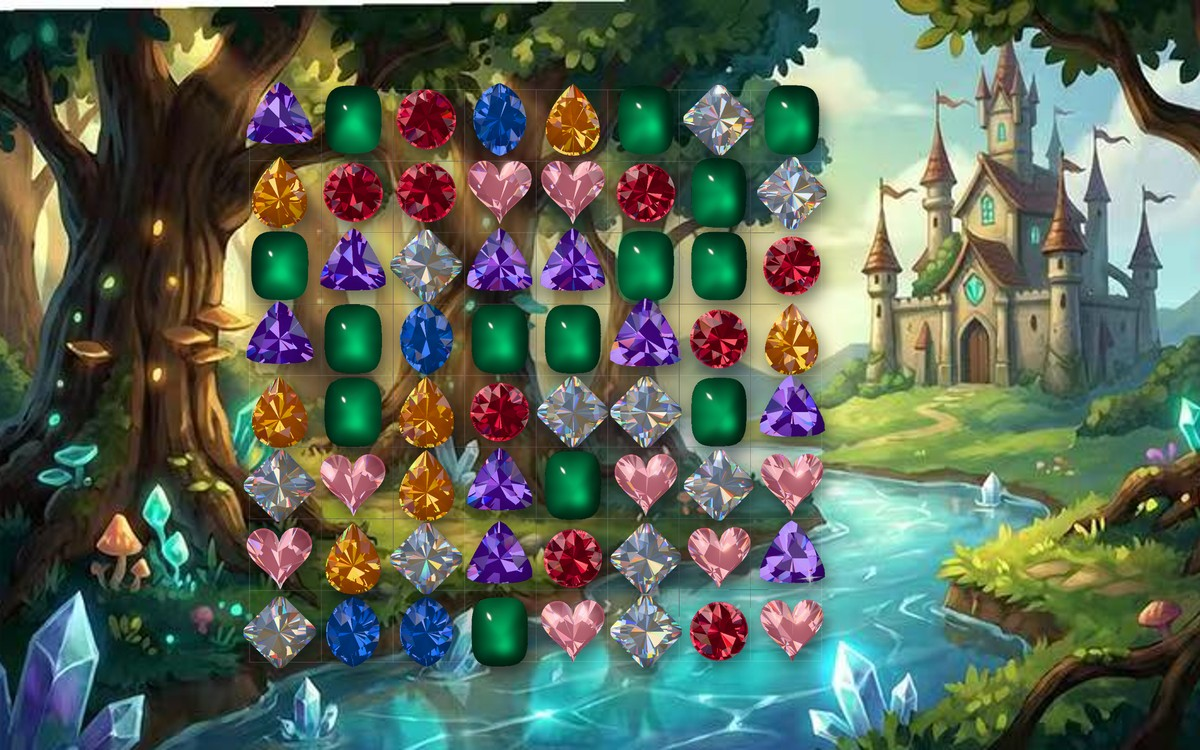
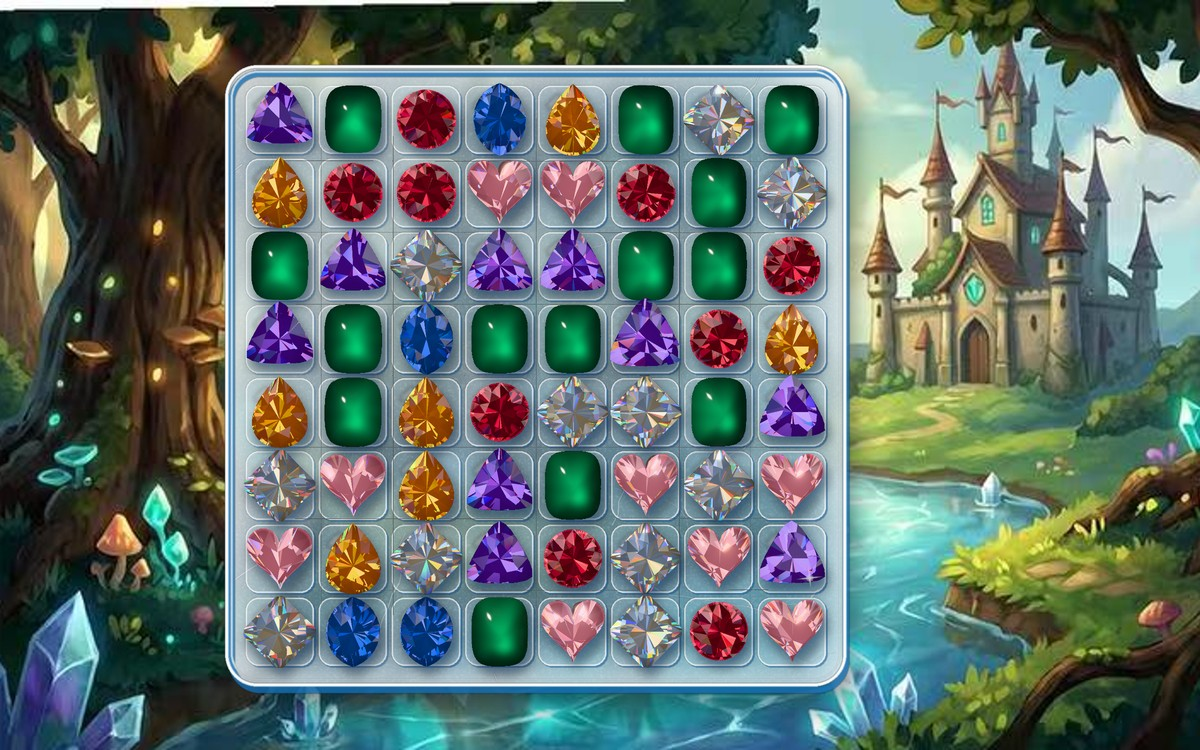
Ice behind the cover's stones, so they stand out from the trees (1.4.6)
Claude-Session: https://claude.ai/code/session_01LS9mE2Y1B7GypKxhDAFMmn

Changed region(s): [[0.1542, 0.0613, 0.74, 0.9813]]

diff --git a/cover-src/ice-cover.py b/cover-src/ice-cover.py
@@ -1,0 +1,126 @@
+# Builds the Gem Surge cover: the board's stones on a slab of ice, set on the
+# painted backdrop. Usage: ice-cover.py backdrop.jpg board-cutout.png out.jpg
+import sys, random
+import numpy as np
+from PIL import Image, ImageDraw, ImageFilter, ImageChops
+
+backdrop, cutout, out = sys.argv[1:4]
+W, H = 2400, 1500
+R = random.Random(5)
+
+# The painting: pale right and bottom edges trimmed, scaled to fill, keeping
+# its left so the castle on the right clears the board.
+src = Image.open(backdrop).convert("RGB").crop((6, 0, 792, 440))
+big = src.resize((round(src.width * H / 440), H), Image.BICUBIC)
+bg = big.crop((0, 0, W, H)).convert("RGBA")
+
+# The board cut-out and where its 8x8 grid lands on the cover.
+CROP = (445, 4, 1947, 1493)
+board = Image.open(cutout).crop(CROP)
+s = 1220 / board.height
+board = board.resize((round(board.width * s), round(board.height * s)), Image.LANCZOS)
+bx = (W - board.width) // 2 - 130
+by = (H - board.height) // 2
+cell = 178.5 * s
+gx = bx + (483.75 - CROP[0]) * s
+gy = by + (35.75 - CROP[1]) * s
+size = cell * 8
+
+# ---- the slab of ice
+pad = 36
+x0, y0, x1, y1 = gx - pad, gy - pad, gx + size + pad, gy + size + pad
+box = [round(v) for v in (x0, y0, x1, y1)]
+mask = Image.new("L", (W, H), 0)
+ImageDraw.Draw(mask).rounded_rectangle(box, radius=64, fill=255)
+
+# Its shadow on the scene.
+shadow = Image.new("RGBA", (W, H), (0, 0, 0, 0))
+ImageDraw.Draw(shadow).rounded_rectangle([box[0] + 6, box[1] + 30, box[2] + 6, box[3] + 34], radius=64, fill=(8, 24, 40, 150))
+bg.alpha_composite(shadow.filter(ImageFilter.GaussianBlur(30)))
+
+# Ice is the scene seen through frost: blurred, paled and cooled.
+frost = bg.filter(ImageFilter.GaussianBlur(20)).convert("RGB")
+frost = Image.blend(frost, Image.new("RGB", (W, H), (150, 215, 250)), 0.42)
+ice = frost.convert("RGBA")
+
+def overlay(alpha_array, color=(255, 255, 255)):
+    layer = Image.new("RGBA", (W, H), color + (0,))
+    layer.putalpha(Image.fromarray(np.clip(alpha_array, 0, 255).astype("uint8")))
+    ice.alpha_composite(layer)
+
+rng = np.random.default_rng(3)
+# Brighter towards the top, where the light comes in.
+yy = np.linspace(1, 0, H)[:, None] * np.ones((1, W))
+overlay(60 * yy ** 1.5)
+# Frost gathers at the slab's edges; its middle stays clear.
+edge = Image.new("L", (W, H), 255)
+ImageDraw.Draw(edge).rounded_rectangle([box[0] + 46, box[1] + 46, box[2] - 46, box[3] - 46], radius=40, fill=0)
+overlay(np.asarray(edge.filter(ImageFilter.GaussianBlur(34))).astype(float) * 0.62)
+# Cloudy patches deep in the ice, and a fine frosty grain on its face.
+cloud = Image.fromarray((rng.random((H // 8, W // 8)) * 255).astype("uint8")).resize((W, H), Image.BICUBIC).filter(ImageFilter.GaussianBlur(40))
+overlay((np.asarray(cloud).astype(float) - 118) * 1.0)
+grain = Image.fromarray((rng.random((H, W)) * 255).astype("uint8")).filter(ImageFilter.GaussianBlur(1.2))
+overlay((np.asarray(grain).astype(float) - 122) * 0.7)
+
+# Fine cracks, each with a branch or two.
+cracks = Image.new("RGBA", (W, H), (0, 0, 0, 0))
+cd = ImageDraw.Draw(cracks)
+def crack(x, y, angle, length, width, alpha, depth=0):
+    pts = [(x, y)]
+    for _ in range(int(length / 26)):
+        angle += R.uniform(-0.5, 0.5)
+        x += np.cos(angle) * 26; y += np.sin(angle) * 26
+        pts.append((x, y))
+        if depth < 2 and R.random() < 0.16:
+            crack(x, y, angle + R.choice([-1, 1]) * R.uniform(0.5, 1.1), length * 0.4, max(1, width - 1), alpha * 0.7, depth + 1)
+    cd.line(pts, fill=(255, 255, 255, int(alpha)), width=width, joint="curve")
+for _ in range(9):
+    crack(R.uniform(x0, x1), R.uniform(y0, y1), R.uniform(0, 6.28), R.uniform(220, 520), 3, 120)
+ice.alpha_composite(cracks.filter(ImageFilter.GaussianBlur(0.8)))
+
+# Each cell is its own block: a pale face, a bright edge up and to the left,
+# a blue one down and to the right, and a glint of light.
+tiles = Image.new("RGBA", (W, H), (0, 0, 0, 0))
+td = ImageDraw.Draw(tiles)
+glints = Image.new("RGBA", (W, H), (0, 0, 0, 0))
+gd = ImageDraw.Draw(glints)
+for r in range(8):
+    for c in range(8):
+        tx0 = gx + c * cell + 5; ty0 = gy + r * cell + 5
+        tx1 = tx0 + cell - 10; ty1 = ty0 + cell - 10
+        td.rounded_rectangle([tx0 + 3, ty0 + 3, tx1 + 3, ty1 + 3], radius=26, outline=(20, 90, 160, 150), width=4)
+        td.rounded_rectangle([tx0, ty0, tx1, ty1], radius=26, fill=(220, 245, 255, 40), outline=(255, 255, 255, 215), width=3)
+        gd.line([(tx0 + 20, ty0 + 44), (tx0 + 44, ty0 + 20)], fill=(255, 255, 255, 210), width=9)
+        gd.line([(tx1 - 40, ty1 - 14), (tx1 - 14, ty1 - 40)], fill=(255, 255, 255, 90), width=6)
+ice.alpha_composite(tiles.filter(ImageFilter.GaussianBlur(0.7)))
+ice.alpha_composite(glints.filter(ImageFilter.GaussianBlur(5)))
+
+# A broad sheen across the whole slab.
+sheen = Image.new("RGBA", (W, H), (0, 0, 0, 0))
+sd = ImageDraw.Draw(sheen)
+sd.polygon([(x0 + 180, y0), (x0 + 520, y0), (x0 + 60, y1), (x0 - 280, y1)], fill=(255, 255, 255, 60))
+sd.polygon([(x0 + 700, y0), (x0 + 800, y0), (x0 + 340, y1), (x0 + 240, y1)], fill=(255, 255, 255, 30))
+ice.alpha_composite(sheen.filter(ImageFilter.GaussianBlur(18)))
+
+bg.paste(ice, (0, 0), mask)
+
+# The slab's rim: bright where the light hits, deep blue in its thickness.
+rim = Image.new("RGBA", (W, H), (0, 0, 0, 0))
+rd = ImageDraw.Draw(rim)
+rd.rounded_rectangle([box[0] + 6, box[1] + 10, box[2] + 6, box[3] + 14], radius=64, outline=(20, 110, 180, 200), width=14)
+rd.rounded_rectangle(box, radius=64, outline=(255, 255, 255, 235), width=7)
+rd.rounded_rectangle([box[0] + 12, box[1] + 12, box[2] - 12, box[3] - 12], radius=54, outline=(255, 255, 255, 70), width=3)
+bg.alpha_composite(rim.filter(ImageFilter.GaussianBlur(1.1)))
+
+# ---- the stones, without the board's dark pane, each shadowed on the ice
+r, g, b, a = board.split()
+a = a.point(lambda v: 0 if v < 150 else min(255, int((v - 150) * 255 / 70)))
+stones = Image.merge("RGBA", (r, g, b, a))
+dark = Image.new("RGBA", board.size, (16, 52, 96, 0))
+dark.putalpha(a.point(lambda v: int(v * 0.6)))
+under = Image.new("RGBA", (W, H), (0, 0, 0, 0))
+under.alpha_composite(dark, (bx + 7, by + 15))
+bg.alpha_composite(under.filter(ImageFilter.GaussianBlur(11)))
+bg.alpha_composite(stones, (bx, by))
+
+bg.convert("RGB").resize((1200, 750), Image.LANCZOS).save(out, quality=90)

diff --git a/cover-src/README.md b/cover-src/README.md
@@ -1,14 +1,22 @@
 # The cover picture
 
-`public/cover.jpg` (1200×750, no text) is the board set on a painted
-backdrop, made in two parts:
+`public/cover.jpg` (1200×750, no text) is the board's stones on a slab of
+ice, set on a painted backdrop. `ice-cover.py` puts it together:
+
+```
+python3 ice-cover.py backdrop.jpg board-cutout.png ../public/cover.jpg
+```
 
 - **The backdrop.** `backdrop.jpg` is a painting of a forest glade with a
   castle and a river, supplied by the game's owner. Its pale right and
   bottom edges are trimmed, and it is scaled to fill the cover, keeping the
   left of the picture so the castle on the right stays clear of the board.
-- **The board.** It is shot from the game twice at 2400×1500, once over
-  black and once over white, with the scenery left out. The difference
-  between the two shots gives each pixel's transparency, so the stones keep
-  their soft edges. The cut-out is set a little left of the middle with a
-  soft shadow under each stone.
+- **The ice.** Behind the stones is a slab of ice, so they stand out from
+  the trees: the backdrop blurred and cooled to a pale blue, frosted at its
+  edges, with fine cracks, a block for each cell and a bright rim.
+- **The board.** `board-cutout.png` is not kept here. To make it, shoot the
+  board from the game twice at 2400×1500 (a 1200×750 window at twice the
+  pixels), once over black and once over white, with the scenery left out
+  and the same stones both times. The difference between the two shots
+  gives each pixel's transparency. The script drops the board's dark pane
+  and gives each stone a soft shadow on the ice.
